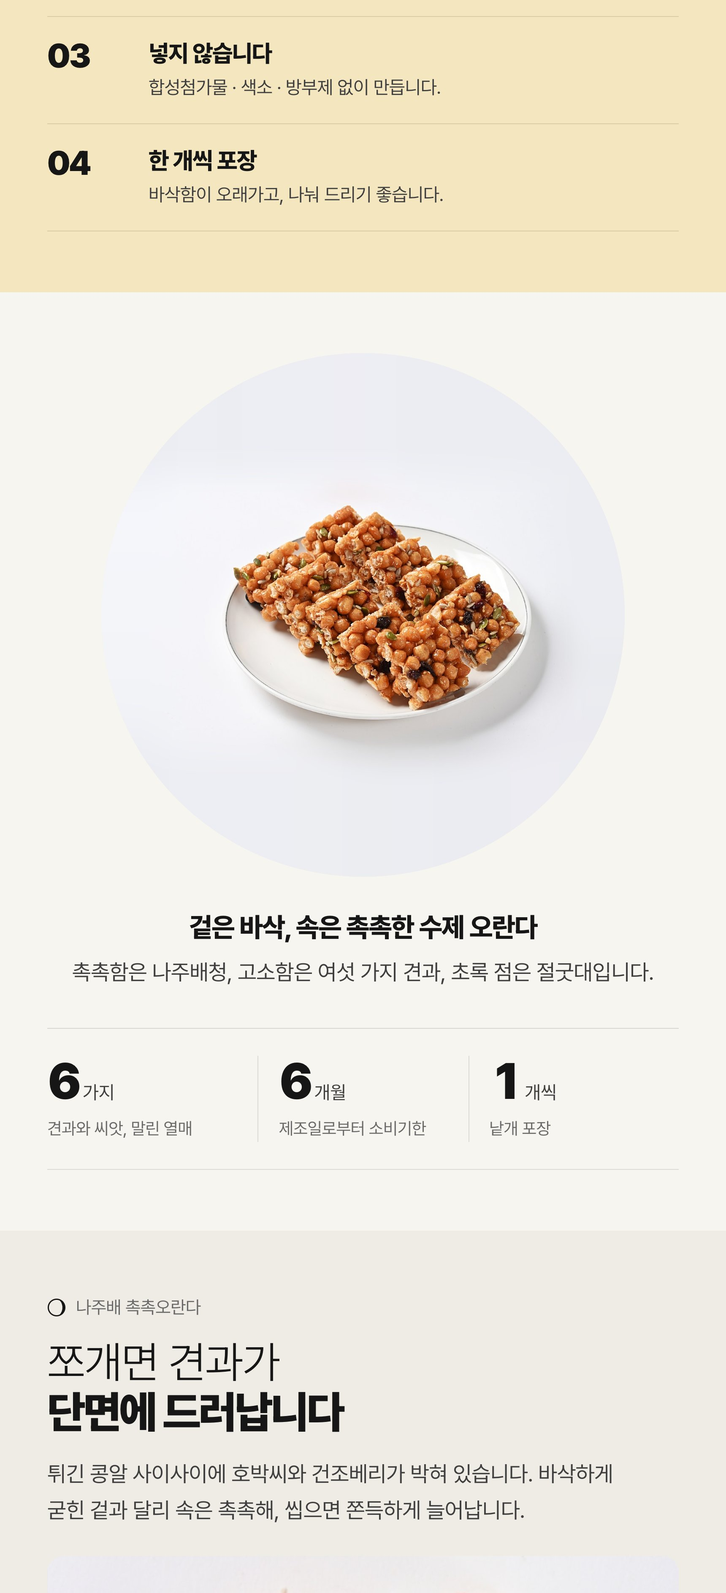
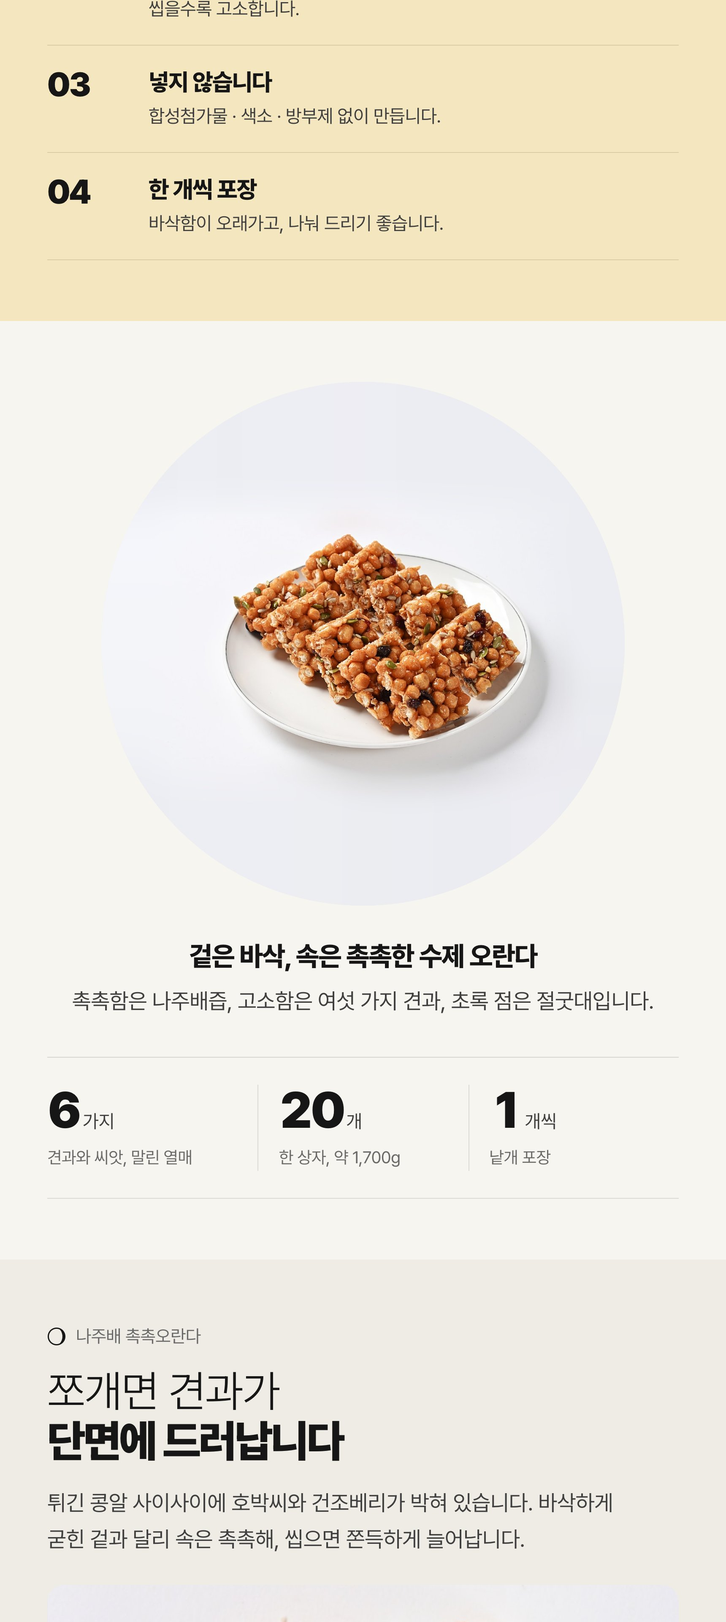
feat: 클라이언트 확정 사실 반영 — 가격·내용량·오란다 표시사항·배송비, 배청→배즙
- 절굿대떡 35,000원(80g×20개, 약 1,600g) · 오란다 25,000원(20개, 약 1,700g) · 배송비 3,500원 — 2026-09-12 클라이언트
- 오란다: 식품유형·원재료 전문·유전자변형·알레르기 주의를 표시사항 그대로. 유통기한은 상시 제조라 「낱개 포장에 표시」로(6개월 삭제)
- 「나주배청」은 전부 「나주배즙」으로 · 여섯 가지는 볶은깨·땅콩·해바라기씨·호박씨·크랜베리·건포도
- 가격을 목록·홈 캡션·비교표·「다른 제품」·상세 사양·Offer 구조화 데이터에 표시. 상세페이지 3종 재렌더(가격·내용량 행)

diff --git a/lib/site.ts b/lib/site.ts
@@ -93,11 +93,11 @@ export const faq = [
   },
   {
     q: "오란다는 어떻게 보관하나요?",
-    a: "냉장·냉동을 권합니다. 상온 보관도 됩니다. 소비기한은 제조일로부터 6개월이고, 냉동했다면 30분 전에 상온에 두거나 전자레인지에 15초 데우면 속이 다시 촉촉해집니다.",
+    a: "냉장·냉동을 권합니다. 상온 보관도 됩니다. 유통기한은 낱개 포장에 적혀 있습니다. 냉동했다면 30분 전에 상온에 두거나 전자레인지에 15초 데우면 속이 다시 촉촉해집니다.",
   },
   {
     q: "택배로 받을 수 있나요?",
-    a: "됩니다. 떡은 보냉 상자에 담아 택배로 보냅니다. 배송비와 걸리는 날수는 주문할 때 안내해 드립니다.",
+    a: "됩니다. 떡은 보냉 상자에 담아 택배로 보냅니다. 배송비는 3,500원이고, 걸리는 날수는 주문할 때 안내해 드립니다.",
   },
   {
     q: "체험은 누가 참여할 수 있나요?",
@@ -113,8 +113,16 @@ export const faq = [
   },
 ];
 
-/** 제품 한눈에 비교 — 열 순서는 products 와 같다(절굿대떡 · 오란다 · 선물세트). 가격은 확정된 것만 적는 규칙이라 여기에도 없다. */
+/** 제품 한눈에 비교 — 열 순서는 products 와 같다(절굿대떡 · 오란다 · 선물세트). 가격은 확정된 것만(2026-09-12 클라이언트). */
 export const productCompare = [
+  {
+    label: "가격",
+    values: [
+      "35,000원 · 1박스 20개",
+      "25,000원 · 1박스 20개",
+      "구성에 따라 전화로 상의",
+    ],
+  },
   {
     label: "어울리는 자리",
     values: ["이바지 · 명절 · 선물", "답례 · 선물", "이바지 · 명절 · 선물"],
@@ -143,7 +151,14 @@ export const productCompare = [
       "떡은 냉동, 오란다는 냉장·냉동",
     ],
   },
-  { label: "배송", values: ["보냉 상자 택배", "택배", "보냉 상자 택배"] },
+  {
+    label: "배송",
+    values: [
+      "보냉 상자 택배 · 3,500원",
+      "택배 · 3,500원",
+      "보냉 상자 택배 · 3,500원",
+    ],
+  },
   {
     label: "주문",
     values: ["전화 · 매장", "전화 · 매장", "전화 (수량·구성 상의)"],
@@ -263,8 +278,8 @@ export const products: Product[] = [
         src: "/images/detail/jeolgutdae-06.jpg",
         alt: "절굿대떡 상세 — 50년 만에 돌아온 나주의 이바지 떡, 재료·만드는 방식·보관·제품정보 (6/6)",
         width: 1720,
-        height: 3900,
[1 lines of base64/hex data omitted]
+        height: 4170,
[1 lines of base64/hex data omitted]
       },
     ],
     ingredients: [
@@ -280,11 +295,12 @@ export const products: Product[] = [
       },
       { src: "/images/ing-pear.jpg", alt: "나주배", label: "나주배즙" },
     ],
-    price: null,
-    unit: null,
+    price: 35000,
+    unit: "1박스 · 20개",
     occasions: ["이바지", "명절", "선물"],
     storeUrl: null,
     spec: [
+      { label: "내용량", value: "80g × 20개 · 약 1,600g" },
       { label: "보관", value: "남은 떡은 굳기 전에 냉동 보관해 주세요" },
       {
         label: "해동",
@@ -332,44 +348,44 @@ export const products: Product[] = [
     name: "나주배 촉촉오란다",
     summary: "겉은 바삭, 속은 촉촉한 수제 오란다",
     detail:
-      "나주배청으로 반죽해 겉은 바삭하고 속은 촉촉합니다. 절굿대 분말을 함께 넣고, 호박씨·해바라기씨·크랜베리 등 여섯 가지 견과를 더해 고소합니다. 합성첨가물과 색소, 방부제를 넣지 않습니다. 낱개로 포장해 바삭함이 오래갑니다.",
+      "나주배즙으로 반죽해 겉은 바삭하고 속은 촉촉합니다. 절굿대 분말을 함께 넣고, 호박씨·해바라기씨·크랜베리 등 여섯 가지 견과를 더해 고소합니다. 합성첨가물과 색소, 방부제를 넣지 않습니다. 낱개로 포장해 바삭함이 오래갑니다.",
     image: "/images/product-oranda-plate.jpg",
     imageAlt: "접시에 담은 나주배 촉촉오란다",
     detailImages: [
       {
         src: "/images/detail/oranda-01.jpg",
-        alt: "나주배 촉촉오란다 상세 — 나주배청 반죽·여섯 가지 견과·재료·보관·제품정보 (1/5)",
+        alt: "나주배 촉촉오란다 상세 — 나주배즙 반죽·여섯 가지 견과·재료·보관·제품정보 (1/5)",
         width: 1720,
-        height: 4000,
[1 lines of base64/hex data omitted]
+        height: 3998,
[1 lines of base64/hex data omitted]
       },
       {
         src: "/images/detail/oranda-02.jpg",
-        alt: "나주배 촉촉오란다 상세 — 나주배청 반죽·여섯 가지 견과·재료·보관·제품정보 (2/5)",
+        alt: "나주배 촉촉오란다 상세 — 나주배즙 반죽·여섯 가지 견과·재료·보관·제품정보 (2/5)",
         width: 1720,
-        height: 3772,
[1 lines of base64/hex data omitted]
+        height: 3840,
[1 lines of base64/hex data omitted]
       },
       {
         src: "/images/detail/oranda-03.jpg",
-        alt: "나주배 촉촉오란다 상세 — 나주배청 반죽·여섯 가지 견과·재료·보관·제품정보 (3/5)",
+        alt: "나주배 촉촉오란다 상세 — 나주배즙 반죽·여섯 가지 견과·재료·보관·제품정보 (3/5)",
         width: 1720,
         height: 4000,
[2 lines of base64/hex data omitted]
       },
       {
         src: "/images/detail/oranda-04.jpg",
-        alt: "나주배 촉촉오란다 상세 — 나주배청 반죽·여섯 가지 견과·재료·보관·제품정보 (4/5)",
+        alt: "나주배 촉촉오란다 상세 — 나주배즙 반죽·여섯 가지 견과·재료·보관·제품정보 (4/5)",
         width: 1720,
         height: 4000,
[2 lines of base64/hex data omitted]
       },
       {
         src: "/images/detail/oranda-05.jpg",
-        alt: "나주배 촉촉오란다 상세 — 나주배청 반죽·여섯 가지 견과·재료·보관·제품정보 (5/5)",
+        alt: "나주배 촉촉오란다 상세 — 나주배즙 반죽·여섯 가지 견과·재료·보관·제품정보 (5/5)",
         width: 1720,
-        height: 3934,
[1 lines of base64/hex data omitted]
+        height: 4546,
[1 lines of base64/hex data omitted]
       },
     ],
     gallery: [
@@ -404,20 +420,31 @@ export const products: Product[] = [
         label: "크랜베리",
       },
     ],
-    price: 30000,
-    unit: "1박스",
+    price: 25000,
+    unit: "1박스 · 20개",
     occasions: ["답례", "선물"],
     storeUrl: null,
-    // 상세페이지 이미지에서 읽어낸 값. 원재료 전체 표기는 판독이 불완전해
-    // 클라이언트 확인 전까지 싣지 않는다(식품 표기는 틀리면 법적 문제가 된다).
+    // 2026-09-12 클라이언트가 보낸 표시사항 그대로. 유통기한은 상시 제조라 고정값을 줄 수 없다고 해 포장 표시로 안내.
     spec: [
+      { label: "내용량", value: "20개입 · 약 1,700g" },
+      { label: "식품유형", value: "과자(유탕처리식품)" },
+      {
+        label: "원재료",
+        value:
+          "퍼핑콩(소맥분: 미국·호주·캐나다 등), 미강유(콩 100%: 미국·브라질), 설탕, 버터(국산), 조청(국산), 물엿(옥수수 100%: 러시아·헝가리), 호박씨(중국산), 해바라기씨(중국산), 크랜베리·건포도(미국산), 볶은깨(인도산), 땅콩(국내산), 수제 배즙(국내산)",
+      },
       { label: "보관", value: "냉장·냉동 보관 권장 (상온 보관 가능)" },
-      { label: "소비기한", value: "제조일로부터 6개월" },
+      { label: "제조일·유통기한", value: "상시 제조 · 낱개 포장에 표시" },
       {
         label: "드시는 법",
         value: "냉동 보관 시 30분 전 상온 해동, 또는 전자레인지 15초",
       },
       { label: "포장", value: "낱개 포장" },
+      {
+        label: "주의",
+        value:
+          "특정 원재료에 알레르기가 있는 경우 원재료를 확인한 후 드세요. 알레르기 유발 성분을 사용한 제품과 같은 제조시설에서 만듭니다.",
+      },
     ],
     video: {
       src: "/video/oranda-texture.mp4",
@@ -472,7 +499,7 @@ export const products: Product[] = [
         alt: "선물세트 상세 — 구성·포장·재료·쓰임새·배송·제품정보 (3/5)",
         width: 1720,
         height: 3667,
[2 lines of base64/hex data omitted]
       },
       {
         src: "/images/detail/gift-04.jpg",
@@ -486,7 +513,7 @@ export const products: Product[] = [
         alt: "선물세트 상세 — 구성·포장·재료·쓰임새·배송·제품정보 (5/5)",
         width: 1720,
         height: 3573,
[2 lines of base64/hex data omitted]
       },
     ],
     gallery: [
@@ -519,7 +546,7 @@ export const products: Product[] = [
       },
       { label: "포장", value: "낱개 포장 · 달토끼 상자 · 보자기(선택)" },
       { label: "보관", value: "떡은 냉동, 오란다는 냉장·냉동" },
-      { label: "배송", value: "보냉 상자 택배" },
+      { label: "배송", value: "보냉 상자 택배 · 배송비 3,500원" },
     ],
     accent: "gift",
   },

diff --git a/tools/detail-pages/oranda.html b/tools/detail-pages/oranda.html
@@ -13,9 +13,9 @@
     <div class="photo" style="height:760px"><img src="../../public/images/gal-oranda-bars.jpg" alt="" style="object-position:50% 45%" /></div>
     <img class="emblem" src="../../public/brand/emblem.png" alt="" style="filter:none" />
     <div style="padding:56px 56px 64px">
-      <p class="badge">나주배청 · 여섯 가지 견과 · 낱개 포장</p>
+      <p class="badge">나주배즙 · 여섯 가지 견과 · 낱개 포장</p>
       <h1 class="h1"><span class="thin">겉은 바삭, 속은 촉촉</span><br /><span class="black h-display">나주배 촉촉오란다</span></h1>
-      <p class="lead paper-soft" style="margin-top:24px;max-width:680px">나주배청으로 반죽해 겉은 바삭하고 속은 촉촉합니다. 절굿대 분말을 넣고 여섯 가지 견과를 더해 씹을수록 고소합니다.</p>
+      <p class="lead paper-soft" style="margin-top:24px;max-width:680px">나주배즙으로 반죽해 겉은 바삭하고 속은 촉촉합니다. 절굿대 분말을 넣고 여섯 가지 견과를 더해 씹을수록 고소합니다.</p>
       <div style="margin-top:26px"><span class="tag">답례</span><span class="tag">선물</span><span class="tag">명절</span><span class="tag">간식</span></div>
     </div>
   </section>
@@ -25,8 +25,8 @@
     <p class="eyebrow"><i class="moon" data-phase="0.15"></i>촉촉오란다를 고르는 이유</p>
     <h2 class="h2"><span class="thin">넷만 기억하시면</span><br /><span class="black">됩니다</span></h2>
     <div class="rules" style="margin-top:32px">
-      <div class="r"><p class="n">01</p><div><p class="t">나주배청으로 반죽</p><p class="d">나주 배로 낸 청을 반죽에 넣어, 겉은 바삭해도 속은 촉촉합니다.</p></div></div>
-      <div class="r"><p class="n">02</p><div><p class="t">여섯 가지 견과</p><p class="d">참깨 · 땅콩 · 해바라기씨 · 호박씨 · 건조베리 · 건포도. 씹을수록 고소합니다.</p></div></div>
+      <div class="r"><p class="n">01</p><div><p class="t">나주배즙으로 반죽</p><p class="d">나주 배로 낸 즙을 반죽에 넣어, 겉은 바삭해도 속은 촉촉합니다.</p></div></div>
+      <div class="r"><p class="n">02</p><div><p class="t">여섯 가지 견과</p><p class="d">볶은깨 · 땅콩 · 해바라기씨 · 호박씨 · 크랜베리 · 건포도. 씹을수록 고소합니다.</p></div></div>
       <div class="r"><p class="n">03</p><div><p class="t">넣지 않습니다</p><p class="d">합성첨가물 · 색소 · 방부제 없이 만듭니다.</p></div></div>
       <div class="r"><p class="n">04</p><div><p class="t">한 개씩 포장</p><p class="d">바삭함이 오래가고, 나눠 드리기 좋습니다.</p></div></div>
     </div>
@@ -37,11 +37,11 @@
     <div class="photo circle ring" style="width:620px;height:620px;margin:0 auto"><img src="../../public/images/product-oranda-plate.jpg" alt="" /></div>
     <div class="center" style="margin-top:40px">
       <p class="h3">겉은 바삭, 속은 촉촉한 수제 오란다</p>
-      <p class="body" style="margin-top:10px">촉촉함은 나주배청, 고소함은 여섯 가지 견과, 초록 점은 절굿대입니다.</p>
+      <p class="body" style="margin-top:10px">촉촉함은 나주배즙, 고소함은 여섯 가지 견과, 초록 점은 절굿대입니다.</p>
     </div>
     <div class="numbers" style="margin-top:44px">
       <div><p class="n">6<span class="u">가지</span></p><p class="d">견과와 씨앗, 말린 열매</p></div>
-      <div><p class="n">6<span class="u">개월</span></p><p class="d">제조일로부터 소비기한</p></div>
+      <div><p class="n">20<span class="u">개</span></p><p class="d">한 상자, 약 1,700g</p></div>
       <div><p class="n">1<span class="u">개씩</span></p><p class="d">낱개 포장</p></div>
     </div>
   </section>
@@ -63,7 +63,7 @@
   <section class="sec bg-ink">
     <p class="eyebrow on-dark"><i class="moon" data-phase="0.4" data-tone="paper"></i>이야기</p>
     <h2 class="h2"><span class="thin">절굿대떡 집이 만든</span><br /><span class="black">오란다</span></h2>
-    <p class="body paper-soft" style="margin-top:22px;max-width:700px">50년 만에 절굿대떡을 되살린 나주의 떡집입니다. 떡에 넣는 절굿대를 오란다에도 분말로 넣고, 단맛은 나주 배로 낸 청으로 냅니다. 떡과 함께 선물 상자에 담아 답례품과 명절 선물로 나갑니다.</p>
+    <p class="body paper-soft" style="margin-top:22px;max-width:700px">50년 만에 절굿대떡을 되살린 나주의 떡집입니다. 떡에 넣는 절굿대를 오란다에도 분말로 넣고, 단맛은 나주 배즙으로 냅니다. 떡과 함께 선물 상자에 담아 답례품과 명절 선물로 나갑니다.</p>
     <div class="photo rect ratio-32" style="margin-top:40px"><img src="../../public/images/owners-field.jpg" alt="" style="object-position:50% 40%" /></div>
     <p class="caption paper-faint">절굿대 밭의 두 사람. 떡에 넣는 절굿대를 오란다에도 넣습니다.</p>
   </section>
@@ -72,14 +72,14 @@
   <section class="sec">
     <p class="eyebrow"><i class="moon" data-phase="0.55"></i>재료</p>
     <h2 class="h2"><span class="thin">넣지 않는 것으로</span><br /><span class="black">말합니다</span></h2>
-    <p class="body" style="margin-top:22px;max-width:700px">합성첨가물과 색소, 방부제를 넣지 않습니다. 촉촉함은 나주배청에서, 고소함은 견과에서 옵니다.</p>
+    <p class="body" style="margin-top:22px;max-width:700px">합성첨가물과 색소, 방부제를 넣지 않습니다. 촉촉함은 나주배즙에서, 고소함은 견과에서 옵니다.</p>
     <div class="ings">
-      <div class="ing"><div class="photo circle"><img src="../../public/images/ing-pear.jpg" alt="" /></div><p class="l">나주배</p><p class="s">청으로 반죽에</p></div>
+      <div class="ing"><div class="photo circle"><img src="../../public/images/ing-pear.jpg" alt="" /></div><p class="l">나주배</p><p class="s">즙으로 반죽에</p></div>
       <div class="ing"><div class="photo circle"><img src="../../public/images/ing-pumpkin-seed.jpg" alt="" /></div><p class="l">호박씨</p><p class="s">여섯 견과 중 하나</p></div>
-      <div class="ing"><div class="photo circle"><img src="../../public/images/ing-cranberry.jpg" alt="" /></div><p class="l">건조베리</p><p class="s">새콤한 점</p></div>
+      <div class="ing"><div class="photo circle"><img src="../../public/images/ing-cranberry.jpg" alt="" /></div><p class="l">크랜베리</p><p class="s">새콤한 점</p></div>
     </div>
     <div class="tbl" style="margin-top:36px">
-      <div class="row"><p class="k">넣는 것</p><p class="v">나주배청 · 절굿대 분말 · 튀긴 콩 · 참깨 · 땅콩 · 해바라기씨 · 호박씨 · 건조베리 · 건포도</p></div>
+      <div class="row"><p class="k">넣는 것</p><p class="v">나주배즙 · 절굿대 분말 · 튀긴 콩 · 볶은깨 · 땅콩 · 해바라기씨 · 호박씨 · 크랜베리 · 건포도</p></div>
       <div class="row"><p class="k">넣지 않는 것</p><p class="v"><strong>합성첨가물 · 색소 · 방부제</strong></p></div>
     </div>
   </section>
@@ -90,7 +90,7 @@
     <h2 class="h2"><span class="thin">받으신 날엔 그대로,</span><br /><span class="black">남으면 냉장·냉동</span></h2>
     <div class="rules" style="margin-top:32px">
       <div class="r"><p class="k">받으신 날</p><div><p class="t">그대로 드세요</p><p class="d">상온에서도 괜찮지만, 냉장하면 더 바삭합니다.</p></div></div>
-      <div class="r"><p class="k">남으면</p><div><p class="t">냉장 · 냉동</p><p class="d">낱개 포장 그대로 보관합니다. 소비기한은 제조일로부터 6개월.</p></div></div>
+      <div class="r"><p class="k">남으면</p><div><p class="t">냉장 · 냉동</p><p class="d">낱개 포장 그대로 보관합니다. 유통기한은 낱개 포장에 적혀 있습니다.</p></div></div>
       <div class="r"><p class="k">냉동했다면</p><div><p class="t">30분 전 상온에</p><p class="d">또는 전자레인지 15초. 속이 다시 촉촉해집니다.</p></div></div>
     </div>
   </section>
@@ -111,12 +111,15 @@
     <p class="h3">제품정보</p>
     <div class="tbl" style="margin-top:20px">
       <div class="row"><p class="k">제품명</p><p class="v">나주배 촉촉오란다</p></div>
-      <div class="row"><p class="k">가격</p><p class="v">30,000원 (1박스)</p></div>
-      <div class="row"><p class="k">주재료</p><p class="v">나주배청 · 절굿대 분말 · 튀긴 콩 · 견과(참깨 · 땅콩 · 해바라기씨 · 호박씨 · 건조베리 · 건포도) — 전체 표기는 포장 표시사항</p></div>
+      <div class="row"><p class="k">가격</p><p class="v">25,000원 (1박스 · 20개)</p></div>
+      <div class="row"><p class="k">내용량</p><p class="v">20개입 · 약 1,700g</p></div>
+      <div class="row"><p class="k">식품유형</p><p class="v">과자(유탕처리식품)</p></div>
+      <div class="row"><p class="k">원재료</p><p class="v">퍼핑콩(소맥분: 미국·호주·캐나다 등), 미강유(콩 100%: 미국·브라질), 설탕, 버터(국산), 조청(국산), 물엿(옥수수 100%: 러시아·헝가리), 호박씨(중국산), 해바라기씨(중국산), 크랜베리·건포도(미국산), 볶은깨(인도산), 땅콩(국내산), 수제 배즙(국내산)</p></div>
       <div class="row"><p class="k">포장</p><p class="v">낱개 포장 · 상자</p></div>
-      <div class="row"><p class="k">소비기한</p><p class="v">제조일로부터 6개월</p></div>
+      <div class="row"><p class="k">제조일·유통기한</p><p class="v">상시 제조 · 낱개 포장에 표시</p></div>
+      <div class="row"><p class="k">주의</p><p class="v">특정 원재료에 알레르기가 있는 경우 원재료를 확인한 후 드세요. 알레르기 유발 성분을 사용한 제품과 같은 제조시설에서 만듭니다.</p></div>
       <div class="row"><p class="k">보관방법</p><p class="v">냉장 · 냉동 보관 권장 (상온 보관 가능)</p></div>
-      <div class="row"><p class="k">배송 방법</p><p class="v">택배</p></div>
+      <div class="row"><p class="k">배송 방법</p><p class="v">택배 · 배송비 3,500원</p></div>
       <div class="row"><p class="k">인증</p><p class="v">사회적기업 제2023-247호 · 고향사랑 답례품(2024) · 상표등록 제40-2515456호(2026)</p></div>
       <div class="row"><p class="k">제조원</p><p class="v">농업회사법인 주식회사 절굿대</p></div>
       <div class="row"><p class="k">소재지</p><p class="v">전라남도 나주시 징고샅길 7-1</p></div>

diff --git a/tools/detail-pages/gift.html b/tools/detail-pages/gift.html
@@ -25,7 +25,7 @@
     <h2 class="h2"><span class="thin">받는 분이</span><br /><span class="black">기억하는 선물</span></h2>
     <div class="rules" style="margin-top:32px">
       <div class="r"><p class="n">01</p><div><p class="t">맛의방주 등재 떡</p><p class="d">50년 만에 돌아온 나주의 절굿대떡을 담습니다.</p></div></div>
-      <div class="r"><p class="n">02</p><div><p class="t">나주배 촉촉오란다</p><p class="d">여섯 가지 견과, 나주배청으로 만든 수제 오란다.</p></div></div>
+      <div class="r"><p class="n">02</p><div><p class="t">나주배 촉촉오란다</p><p class="d">여섯 가지 견과, 나주배즙으로 만든 수제 오란다.</p></div></div>
       <div class="r"><p class="n">03</p><div><p class="t">한 개씩 포장</p><p class="d">여럿이 나누기 쉽고, 남으면 하나씩 냉동.</p></div></div>
       <div class="r"><p class="n">04</p><div><p class="t">상자 · 보자기 · 가방</p><p class="d">달토끼 상자에 담고, 보자기로 한 번 더, 종이 가방까지.</p></div></div>
     </div>
@@ -67,10 +67,10 @@
   <section class="sec bg-ink on-dark">
     <p class="eyebrow on-dark"><i class="moon" data-phase="0.6" data-tone="paper"></i>재료</p>
     <h2 class="h2"><span class="thin">선물이라</span><br /><span class="black">더 넣지 않았습니다</span></h2>
-    <p class="body paper-soft" style="margin-top:22px;max-width:700px">떡은 유화제·인공감미료를, 오란다는 인공첨가물·방부제를 넣지 않습니다. 단맛은 나주배, 고소함은 여섯 가지 견과.</p>
+    <p class="body paper-soft" style="margin-top:22px;max-width:700px">떡은 유화제·인공감미료를, 오란다는 인공첨가물·방부제를 넣지 않습니다. 단맛은 나주배즙, 고소함은 여섯 가지 견과.</p>
     <div class="rules" style="margin-top:32px">
       <div class="r"><p class="k">절굿대떡</p><div><p class="t">찹쌀 · 절굿대 · 나주배즙 · 콩고물</p><p class="d">넣지 않음 — 유화제 · 인공감미료</p></div></div>
-      <div class="r"><p class="k">오란다</p><div><p class="t">나주배청 · 참깨 · 땅콩 · 해바라기씨 · 호박씨 · 건조베리 · 건포도</p><p class="d">넣지 않음 — 인공첨가물 · 방부제</p></div></div>
+      <div class="r"><p class="k">오란다</p><div><p class="t">나주배즙 · 볶은깨 · 땅콩 · 해바라기씨 · 호박씨 · 크랜베리 · 건포도</p><p class="d">넣지 않음 — 인공첨가물 · 방부제</p></div></div>
     </div>
     <div class="grid-4" style="margin-top:32px">
       <div class="photo circle"><img src="../../public/images/ing-jeolgutdae-paste.jpg" alt="" /></div>
@@ -122,7 +122,7 @@
       <div class="row"><p class="k">원산지</p><p class="v">국내산 (절굿대: 나주 자체 재배)</p></div>
       <div class="row"><p class="k">포장</p><p class="v">낱개 포장 · 달토끼 상자 · 보자기(선택) · 종이 가방</p></div>
       <div class="row"><p class="k">보관방법</p><p class="v">떡은 냉동, 오란다는 냉장·냉동 권장</p></div>
-      <div class="row"><p class="k">배송 방법</p><p class="v">보냉 상자에 담아 택배</p></div>
+      <div class="row"><p class="k">배송 방법</p><p class="v">보냉 상자에 담아 택배 · 배송비 3,500원</p></div>
       <div class="row"><p class="k">인증</p><p class="v">맛의방주 등재(2022) · 사회적기업 제2023-247호 · 고향사랑 답례품(2024) · 상표등록 제40-2515456호(2026)</p></div>
       <div class="row"><p class="k">제조원</p><p class="v">농업회사법인 주식회사 절굿대</p></div>
       <div class="row"><p class="k">소재지</p><p class="v">전라남도 나주시 징고샅길 7-1</p></div>

diff --git a/app/products/page.tsx b/app/products/page.tsx
@@ -95,7 +95,15 @@ export default function ProductsPage() {
                     <p className="mt-2 text-caption text-ink-faint">
                       {p.occasions.join(" · ")}
                     </p>
-                    {/* 가격이 없으면 자리표('전화 문의')도 없다 — 가격은 나중에 들어온다(요청 사항). */}
+                    {/* 가격이 없으면 자리표('전화 문의')도 없다(선물세트는 구성에 따라 다르다). */}
+                    {p.price !== null && (
+                      <p className="mt-2 text-small tabular-nums">
+                        {p.price.toLocaleString("ko-KR")}원
+                        {p.unit && (
+                          <span className="text-ink-faint"> · {p.unit}</span>
+                        )}
+                      </p>
+                    )}
                   </div>
                   <span className="text-link hidden shrink-0 sm:inline-flex">
                     자세히 보기
@@ -298,7 +306,7 @@ export default function ProductsPage() {
               <p className="mt-5 max-w-prose text-ink-soft">
                 떡과 오란다는 한 개씩 따로 포장합니다. 여럿이 나눠 드시거나
                 답례로 돌리기 좋고, 냉동해 두었다가 하나씩 꺼내기도 편합니다.
-                택배는 보냉 상자에 담아 보냅니다.
+                택배는 보냉 상자에 담아 보냅니다. 배송비는 3,500원입니다.
               </p>
             </div>
             {/* 상자와 보냉 택배 상자 — "보냉 상자에 담아 보냅니다"를 사진으로. */}

diff --git a/tools/detail-pages/jeolgutdae.html b/tools/detail-pages/jeolgutdae.html
@@ -135,11 +135,13 @@
     <p class="h3">제품정보</p>
     <div class="tbl" style="margin-top:20px">
       <div class="row"><p class="k">제품명</p><p class="v">절굿대떡</p></div>
+      <div class="row"><p class="k">가격</p><p class="v">35,000원 (1박스 · 20개)</p></div>
+      <div class="row"><p class="k">내용량</p><p class="v">80g × 20개 · 약 1,600g</p></div>
       <div class="row"><p class="k">원재료</p><p class="v">찹쌀, 절굿대, 나주배즙, 콩고물</p></div>
       <div class="row"><p class="k">원산지</p><p class="v">국내산 (절굿대: 나주 자체 재배)</p></div>
       <div class="row"><p class="k">포장</p><p class="v">낱개 포장</p></div>
       <div class="row"><p class="k">보관방법</p><p class="v">냉동 보관 · 받으신 날 드시는 것이 가장 좋습니다</p></div>
-      <div class="row"><p class="k">배송 방법</p><p class="v">보냉 상자에 담아 택배</p></div>
+      <div class="row"><p class="k">배송 방법</p><p class="v">보냉 상자에 담아 택배 · 배송비 3,500원</p></div>
       <div class="row"><p class="k">인증</p><p class="v">맛의방주 등재(2022) · 사회적기업 제2023-247호 · 고향사랑 답례품(2024) · 상표등록 제40-2515456호(2026)</p></div>
       <div class="row"><p class="k">제조원</p><p class="v">농업회사법인 주식회사 절굿대</p></div>
       <div class="row"><p class="k">소재지</p><p class="v">전라남도 나주시 징고샅길 7-1</p></div>

diff --git a/app/products/[slug]/page.tsx b/app/products/[slug]/page.tsx
@@ -390,6 +390,14 @@ export default async function ProductPage({
                       <p className="mt-1 text-small text-ink-soft">
                         {p.summary}
                       </p>
+                      {p.price !== null && (
+                        <p className="mt-1 text-small tabular-nums">
+                          {p.price.toLocaleString("ko-KR")}원
+                          {p.unit && (
+                            <span className="text-ink-faint"> · {p.unit}</span>
+                          )}
+                        </p>
+                      )}
                     </div>
                     <span className="text-link hidden shrink-0 sm:inline-flex">
                       자세히 보기

diff --git a/app/page.tsx b/app/page.tsx
@@ -157,6 +157,11 @@ export default function HomePage() {
                     <span className="text-lead font-bold transition-colors group-hover:text-mint-link">
                       {p.name}
                     </span>
+                    {p.price !== null && (
+                      <span className="text-small tabular-nums text-ink-soft">
+                        {p.price.toLocaleString("ko-KR")}원
+                      </span>
+                    )}
                   </p>
                   <p className="mt-1 text-small text-ink-soft">{p.summary}</p>
                 </div>
